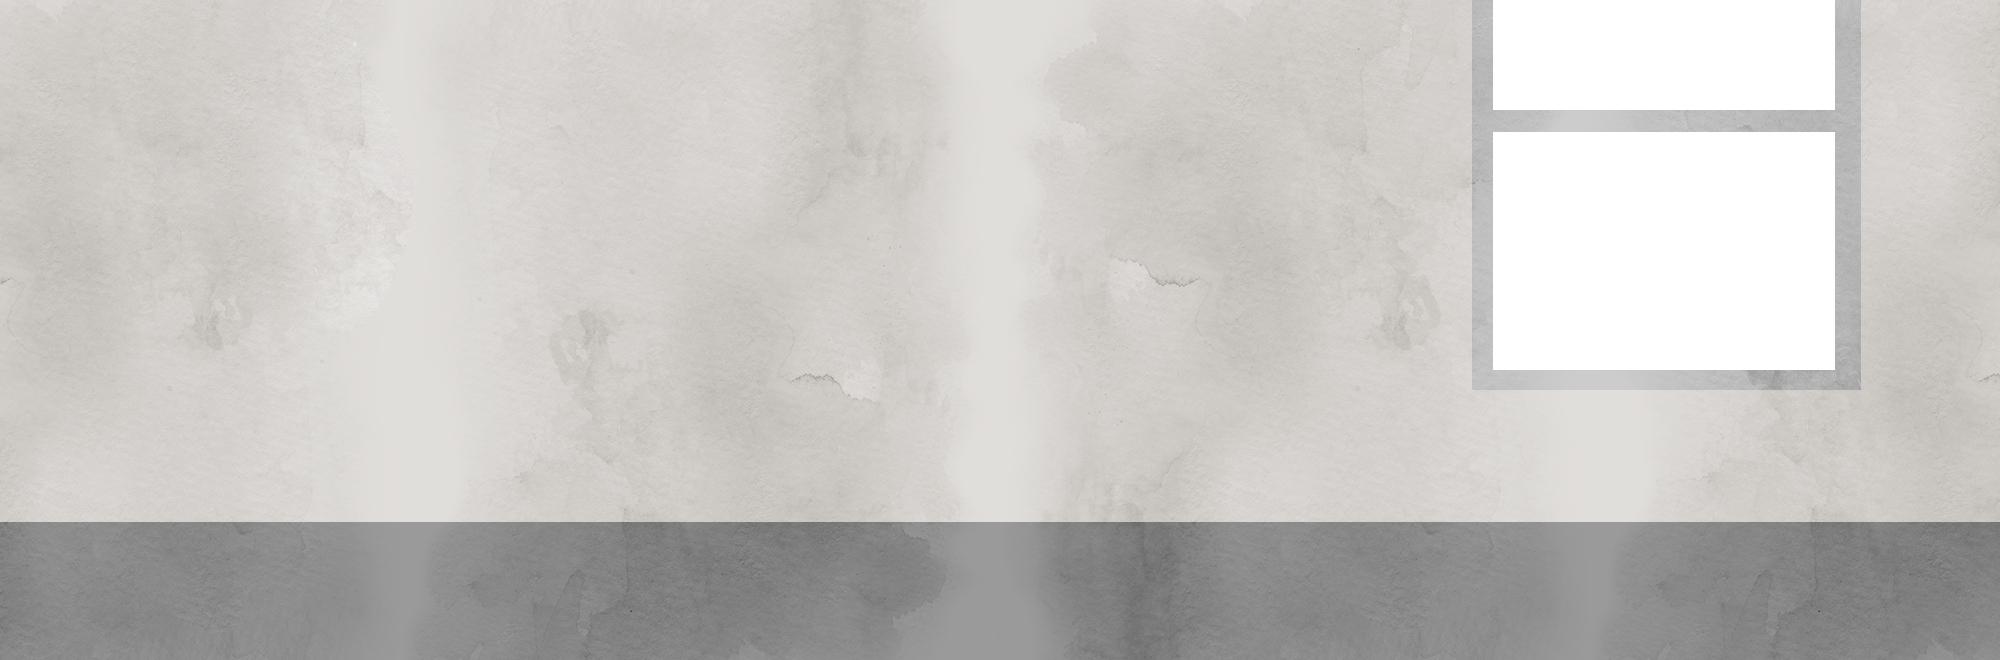
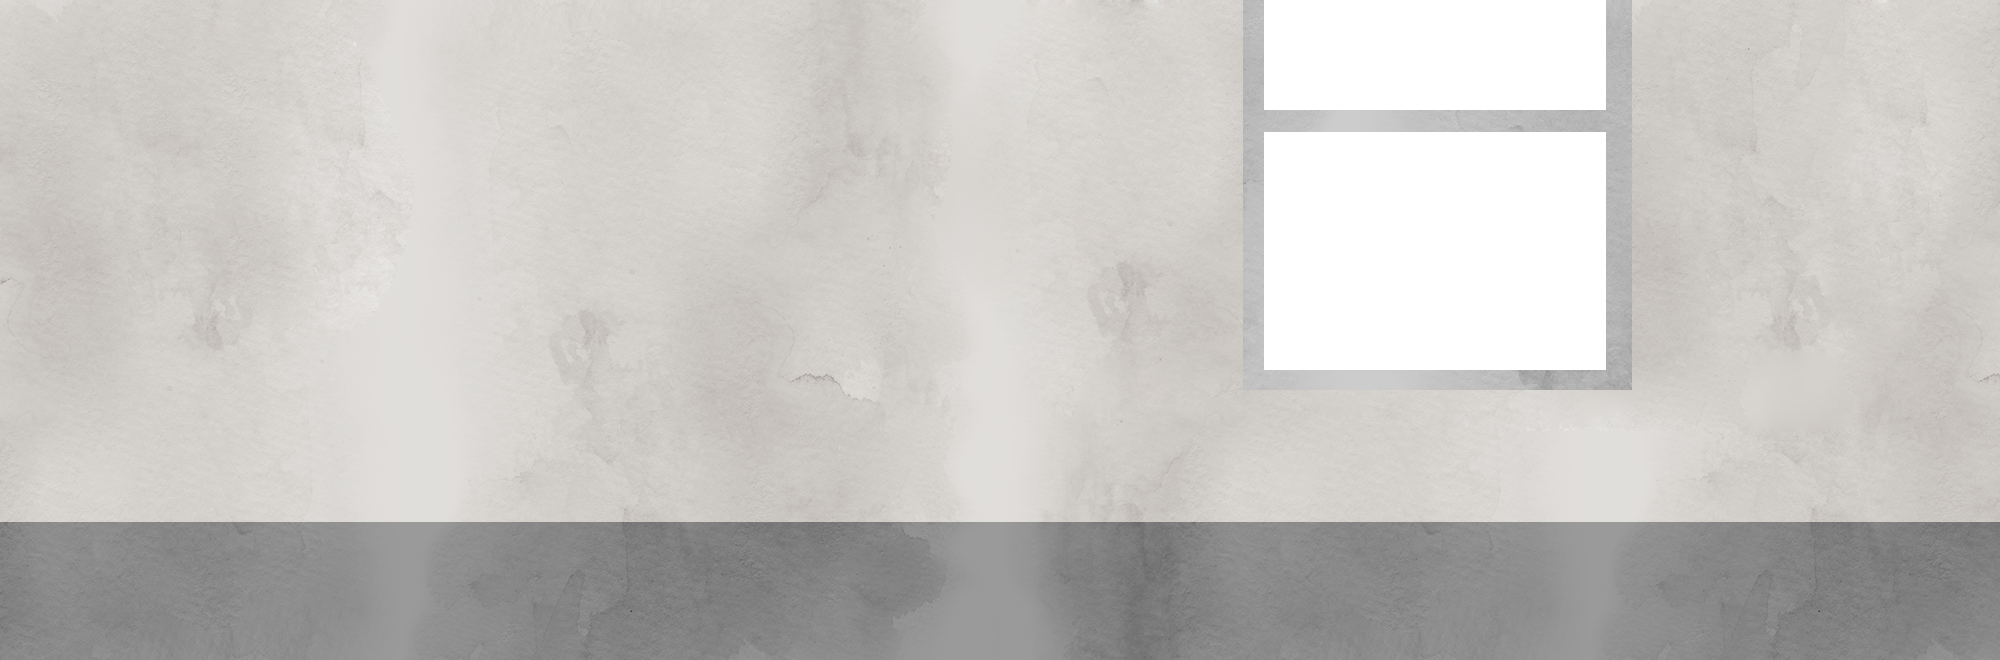
Vorlesungen: Fenster gefixt

Changed region(s): [[0.62, 0.0, 0.93, 0.6061], [0.558, 0.3939, 0.589, 0.4545]]

diff --git a/js/scene_lecture.js b/js/scene_lecture.js
@@ -8,15 +8,15 @@
 $(document).ready(function($) {
 	// Das Hintergrundbild im div wird um 840 pixel nach links verschoben.
 	
-	// ich hab hier irgendwas kaputt gemacht und raffs nicht
-	var backgroundSky = TweenMax.to("#lecture > .sky", 1, {left: "840px", ease: Linear.easeNone});
+	// Himmel
+	var backgroundSky = TweenMax.to("#lecture > .sky", 1, {left: "364px", ease: Linear.easeNone});
 	
 	// Baum
-	var orangeLeaves = TweenMax.fromTo("#lecture > .tree.leaves.orange", 0.5, {autoAlpha:1}, {ease: Linear.easeNone, autoAlpha:0, delay:0.4});
-	var redLeaves	 = TweenMax.fromTo("#lecture > .tree.leaves.red", 0.75, {autoAlpha:1}, {ease: Linear.easeNone, autoAlpha:0, delay:0.2});
+	var orangeLeaves = TweenMax.fromTo("#lecture > .tree.leaves.orange", 0.5, {autoAlpha:1}, {ease: Linear.easeNone, autoAlpha:0, delay:0.2});
+	var redLeaves	 = TweenMax.fromTo("#lecture > .tree.leaves.red", 0.5, {autoAlpha:1}, {ease: Linear.easeNone, autoAlpha:0, delay:0.2});
 	
 	// Schnee
-	var snow = TweenMax.fromTo("#lecture > .snow", 0.8, {top:"-75%"}, {top:"25%", ease: Linear.easeNone, delay:0.2});
+	var snow = TweenMax.fromTo("#lecture > .snow", 0.8, {top:"-75%"}, {top:"25%", ease: Linear.easeNone, delay:0.4});
 	
 	// Sitzreihen
 	var row1 = TweenMax.fromTo("#lecture > .row.first", 1, {left: "10%"}, {left:"9%", ease: Linear.easeNone});

diff --git a/css/style.css b/css/style.css
@@ -290,10 +290,10 @@ a:active {
 }
 
 #lecture > .board {
-	left: 52%;
-	transform: translate(-52%, 0);
-	-webkit-transform: translate(-52%, 0);
-	-ms-transform: translate(-52%, 0);
+	left: 50%;
+	transform: translate(-50%, 0);
+	-webkit-transform: translate(-50%, 0);
+	-ms-transform: translate(-50%, 0);
 }
 
 #lecture > .ppt {
@@ -323,18 +323,24 @@ a:active {
 #lecture > .prof {
 	bottom: 13%;
 }
+#lecture > .sky {
+	left: 1264px;
+}
+#lecture > .snow {
+	left: 1264px;
+}
 
 #lecture > .tree {
-	left: 1470px;
+	left: 1270px;
 }
 
 #lecture > .tree.trunk {
-	left: 1490px;
+	left: 1290px;
 	top: 30px;
 }
 
 #lecture > .tree.leaves.orange {
-	left: 1525px;
+	left: 1325px;
 	top: 20px;
 }
 
